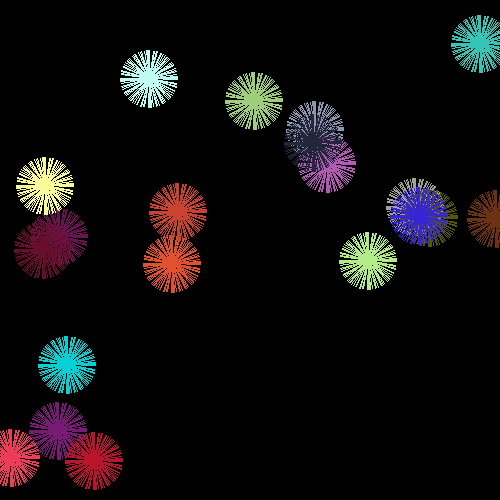
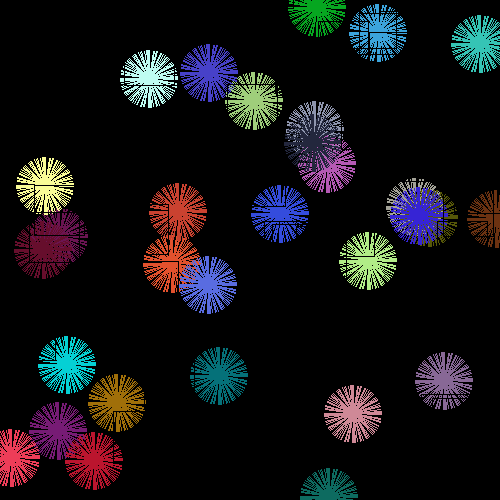
failed random

diff --git a/main.c b/main.c
@@ -1,6 +1,9 @@
 #include <stdio.h>
 #include <stdlib.h>
 #include <string.h>
+#include <fcntl.h>
+#include <unistd.h>
+#include <errno.h>
 
 #include "ml6.h"
 #include "display.h"
@@ -57,14 +60,13 @@ int main() {
   //now for the cool
   clear_screen(s);
 
+
+  //DRAW CIRCLES
   edges = new_matrix(4, 1);
   add_edge(edges, 0, 0, 0, 20, 20, 0);  
   //draw_lines(edges, s, c);
-
-
-  
   double n;
-  for (n = 20; n>0; n--){
+  for (n = 30; n>0; n--){
     c.red = rand() % MAX_COLOR;
     c.blue = rand() % MAX_COLOR;
     c.green = rand() % MAX_COLOR;
@@ -83,6 +85,35 @@ int main() {
       matrix_mult(transform, edges);
       //draw_lines(edges, s, c);
     }
+  }
+
+  //DRAW SQUARES
+  edges = new_matrix(4, 1);
+  //draw_lines(edges, s, c);
+  double n2;
+  for (n2 = 40; n2>0; n2--){
+    int fd;
+    int num=0;
+    fd = open("dev/random", O_RDONLY);
+    read(fd, &num, sizeof(num));
+    c.blue = num%MAX_COLOR;
+    fd = open("dev/random", O_RDONLY);
+    read(fd, &num, sizeof(num));
+    c.green = num%MAX_COLOR;
+    fd = open("dev/random", O_RDONLY);
+    read(fd, &num, sizeof(num));
+    c.red = num%MAX_COLOR;
+    printf("num: %d\n", num);
+
+    double x, y;
+    x = rand()%500;
+    y = rand()%500;
+
+    add_edge(edges, x, y, 0, x+50, y, 0);  
+    add_edge(edges, x, y, 0, x, y+50, 0);  
+    add_edge(edges, x+50, y, 0, x+50, y+50, 0);  
+    add_edge(edges, x, y+50, 0, x+50, y+50, 0);  
+    draw_lines(edges, s, c);
   }
   
   display(s);
